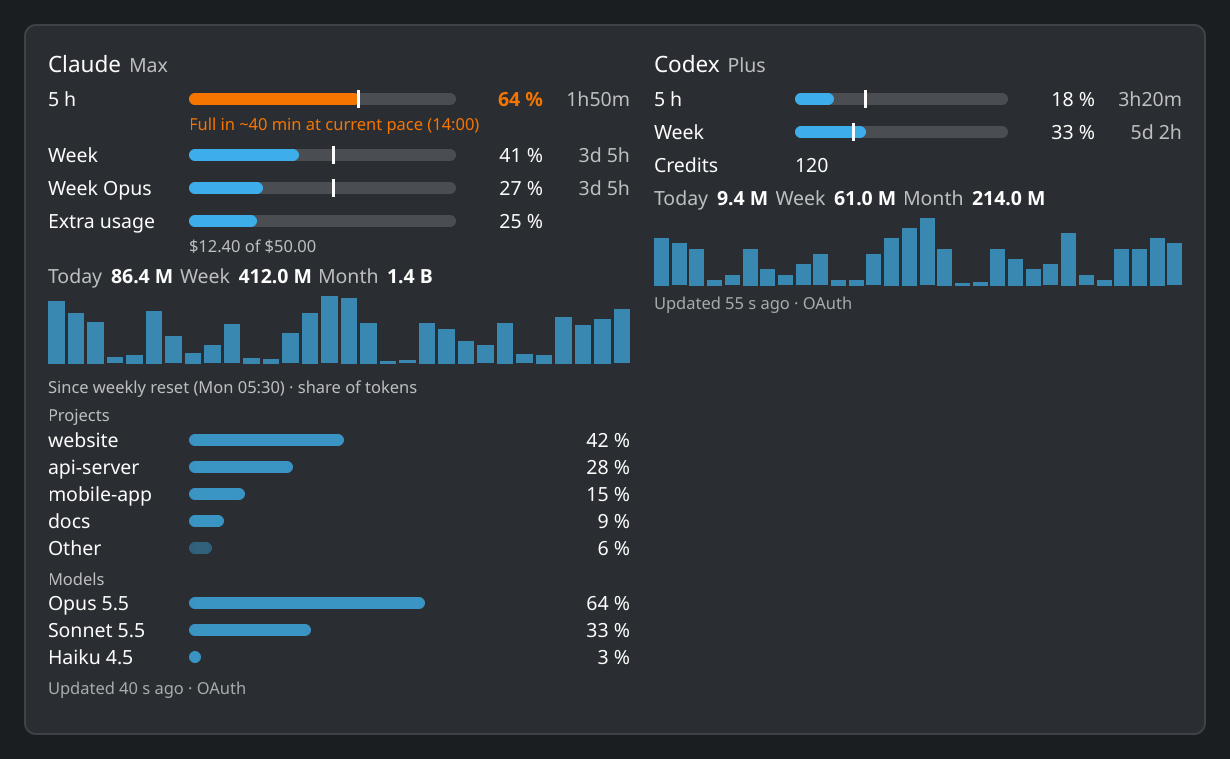
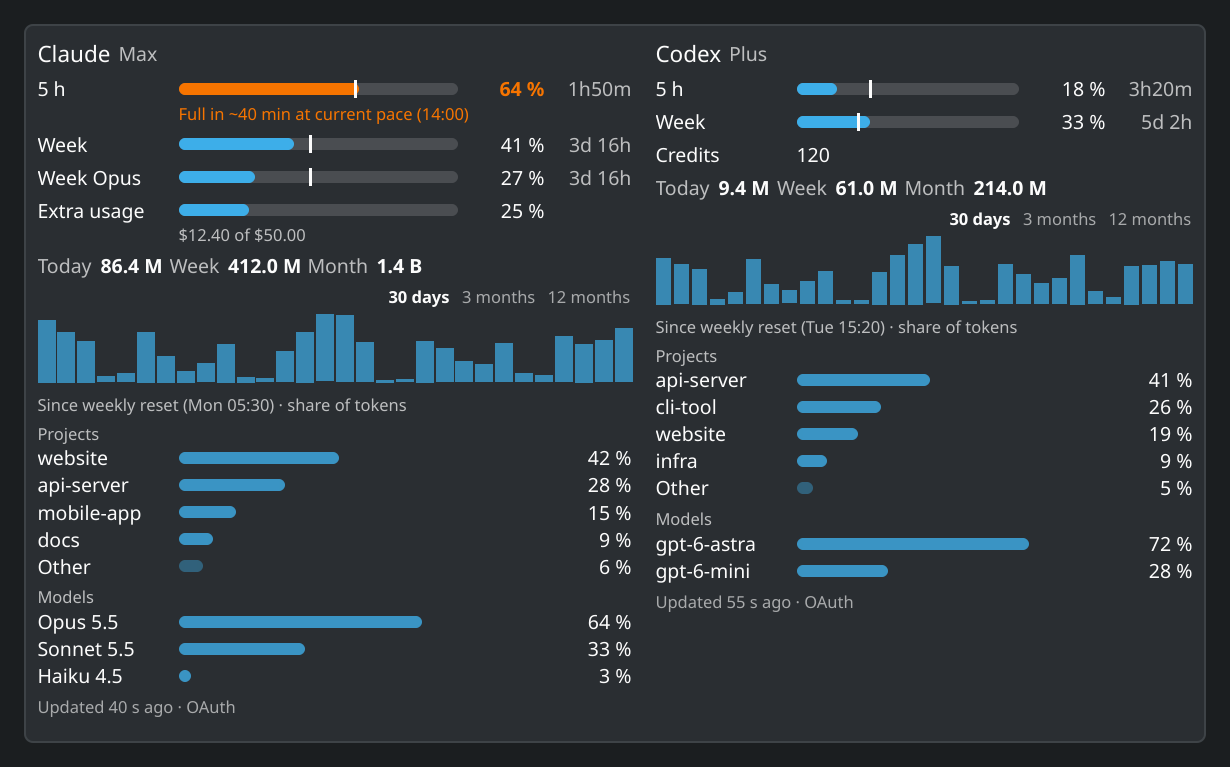
Show the Codex breakdown in the README and store images

diff --git a/README.md b/README.md
@@ -18,7 +18,7 @@
 </p>
 
 <p align="center">
-  <img src="docs/images/popup.png" width="820" alt="The widget's card with the Claude and Codex limits, reset countdowns, token history and a breakdown by project and model">
+  <img src="docs/images/popup.png" width="820" alt="The widget's card with the Claude and Codex limits, reset countdowns, token history and, for each, a breakdown by project and model">
   <br>
   <sub>All screenshots show sample data.</sub>
 </p>
